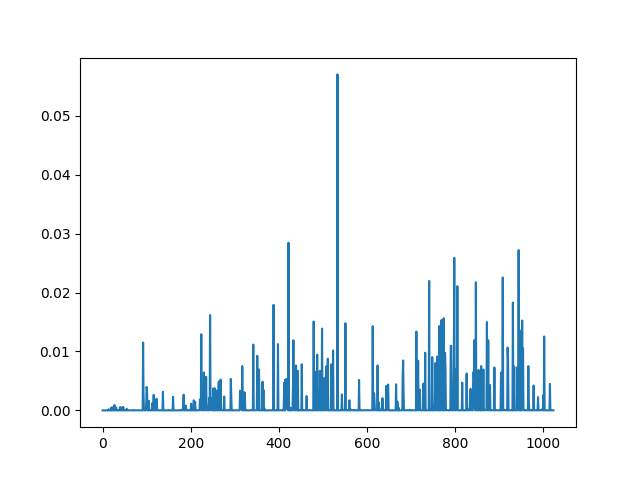
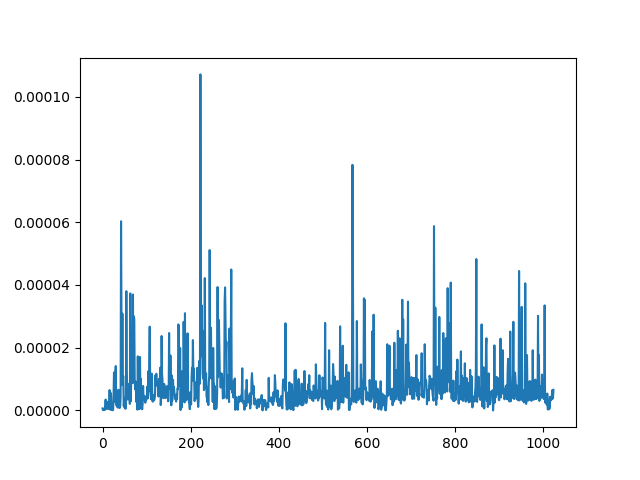
Added smooth sensitivity calc

diff --git a/ensemble.py b/ensemble.py
@@ -9,6 +9,8 @@ import copy
 import matplotlib.pyplot as plt
 from scipy.optimize import bisect
 import os
+from itertools import combinations
+import tqdm
 
 class Ensemble():
     def __init__(self, model_dirs, model_name, tokenizer,
@@ -32,7 +34,11 @@ class Ensemble():
         self.target = np.sqrt((2 * self.eps) / (self.q_budget * self.alpha))
         #self.target = (self.eps ) / (self.q_budget )
         self.lambda_history = []
-
+        self.beta = 0.4/self.alpha
+        self.sigma = np.sqrt( (4 * self.q_budget * (self.alpha-1) * alpha * np.exp(2 * self.beta)) /
+                              ((self.alpha-1) * self.eps - 4 * self.q_budget * (self.beta * self.alpha - 0.5 * np.log(1 - 2 * self.alpha * self.beta)))
+        )
+        print("Sigma value", self.sigma)
         self.lora_ensemble = 0 
         for i, dir in enumerate(self.model_dirs):
             if i == 0:
@@ -85,33 +91,55 @@ class Ensemble():
         return logits
 
     def priv_pred(self, output_dists):
-        self.lambdas = [self.lambda_solver_bisection(output_dists[i],
-                                                    output_dists[self.num_ensemble],
-                                                    ) for i in range(self.num_ensemble)]
-        #self.lambdas = [0.1 for i in range(self.num_ensemble)]
+        #self.lambdas = [self.lambda_solver_bisection(output_dists[i],
+        #                                            output_dists[self.num_ensemble],
+        #                                            ) for i in range(self.num_ensemble)]
+        self.lambdas = [0.1 for i in range(self.num_ensemble)]
         self.lambda_history.append(np.mean([lambd for lambd in self.lambdas]))
         mixed_dists = [self.mix(output_dists[i], output_dists[self.num_ensemble], self.lambdas[i])
                        for i in range(self.num_ensemble)]
 
-        ensemble_dist = torch.stack(mixed_dists).mean(dim=0) 
+        mixed_dists = torch.stack(mixed_dists)
+        ensemble_dist = mixed_dists.mean(dim=0) 
         pub = output_dists[self.num_ensemble]
-        loss = self.calc_dependent_loss(mixed_dists, pub)
-        self.left_over += (self.eps/self.q_budget - loss)
-        #print("left over", self.left_over)
-        #print('loss', loss)
-        #print('lambda', self.lambda_history[-1])
+        loss = self.data_dependent_loss(mixed_dists)
+        ub_loss = self.data_dependent_loss_ub(mixed_dists, beta=0.01, sigma=57.6)
+        print("Data dependent loss", loss)
+        print("Upper bounded data dependent loss", ub_loss)
+        #self.left_over += (self.eps/self.q_budget - loss)
         self.priv_loss.append(loss) 
         return ensemble_dist 
 
-    def calc_dependent_loss(self, mixed_dists, p_pub):
+    def data_dependent_loss(self, mixed_dists):
         max_loss = 0
-        p = torch.stack(mixed_dists).mean(dim=0)
-        for i in range(len(mixed_dists)):
-            p_i = torch.stack(mixed_dists[:i] + mixed_dists[i+1:]).mean(dim=0)
+        p = mixed_dists.mean(dim=0)
+        X = combinations([i for i in range(len(mixed_dists))], len(mixed_dists)-1)
+        for x in X:
+            p_i = mixed_dists[list(x)].mean(dim=0)
             eps = max(self.renyiDiv(p, p_i, alpha=self.alpha),
              self.renyiDiv(p_i, p, alpha=self.alpha))
             max_loss = max(eps, max_loss)
         return max_loss
+    
+    def data_dependent_loss_ub(self, mixed_dists, beta, sigma):
+        ss = self.smooth_sensitivity(mixed_dists, beta)
+        eps = self.data_dependent_loss(mixed_dists)
+        return eps + ss * np.random.normal(loc=0.0, scale=sigma, size=1)
+
+    def smooth_sensitivity(self, mixed_dists, beta, k=2):
+        X = [i for i in range(self.num_ensemble)] 
+        ss = 0
+        for k in range(self.num_ensemble, 2, -1):
+            X_prime = combinations(X, k) 
+            ss_prime = max(np.exp(-beta * k) * np.array([self.local_sensitivity(mixed_dists[[list(x_prime)]]) for x_prime in X_prime]))
+            print(f"k={self.num_ensemble-k}, Smooth Sensitivity={ss_prime}")
+            ss = max(ss, ss_prime)
+        return ss
+
+    def local_sensitivity(self, mixed_dists):
+        eps = self.data_dependent_loss(mixed_dists)
+        X = combinations([i for i in range(len(mixed_dists))], len(mixed_dists)-1)
+        return max([abs(eps - self.data_dependent_loss(mixed_dists[list(x)])) for x in X])
     
     def data_independent_loss(self, p_mix, p_pub):
         return  max(self.renyiDiv(p_mix, p_pub, alpha=self.alpha),
@@ -120,7 +148,6 @@ class Ensemble():
     def lambda_solver_bisection(self, p_priv, p_pub):
         def f(lambd):
             pred = lambd * p_priv + (1-lambd) * p_pub
-            #eps = self.data_independent_loss(pred, p_pub)
             eps = self.data_independent_loss(pred, p_pub)
             return (eps - (self.eps/self.q_budget + self.left_over))
         if f(1) <= 0.0:
@@ -133,7 +160,6 @@ class Ensemble():
         val_1 = ((np.exp((self.target + self.left_over)) - 1) * p_pub) / (p_priv - p_pub)
         val_2 = ((1 / np.exp((self.target + self.left_over)) - 1) * p_pub) / (p_priv - p_pub)
         val = torch.max(val_1, val_2)
-        #val = torch.nan_to_num(val, nan=0.0, neginf=0.0)
         val = torch.min(val, torch.ones(val.size()[0]))
         return val
 

diff --git a/prediction_experiments.py b/prediction_experiments.py
@@ -159,7 +159,7 @@ def plot_ppl(ppl_scores):
 
 def private_pred(priv_model, pub_model, epsilon, budget, alpha=2, device="cpu"):
     #lambd = lambda_solver_bisection(priv_model.cpu(), pub_model.cpu(), epsilon, budget, alpha)
-    lambd = 0.1
+    lambd = 0.2
     pred = lambd * priv_model + (1-lambd) * pub_model
     loss = min(data_independent_loss(pred, pub_model, alpha),
                data_dependent_loss(pred.cpu(), pub_model, alpha))
@@ -272,7 +272,7 @@ if __name__ == "__main__":
     dpsgd_ppl_list = []
     mix_ppl_list = []
     ensemble_ppl_list = []
-    for i in tqdm.tqdm(range(0, 5)):
+    for i in tqdm.tqdm(range(0, 1)):
         args.seed = i 
         pub_ppl, priv_ppl, dpsgd_ppl, mix_ppl, ensemble_ppl = main(args)
         pub_ppl_list.append(pub_ppl)

diff --git a/training_ensemble.py b/training_ensemble.py
@@ -63,7 +63,7 @@ def train_ensemble(args, model_dir):
         lora_model = get_peft_model(pretrained_model, lora_config)
 
         print(f"\n\nTraining Shard {i} of size {len(lm_shards['train'])}")
-        print(f"Trainable paramters {print_trainable_parameters(lora_model)}\n\n")
+        print_trainable_parameters(lora_model)
 
         output_dir = 0
         if args.num_ensemble == 1:
